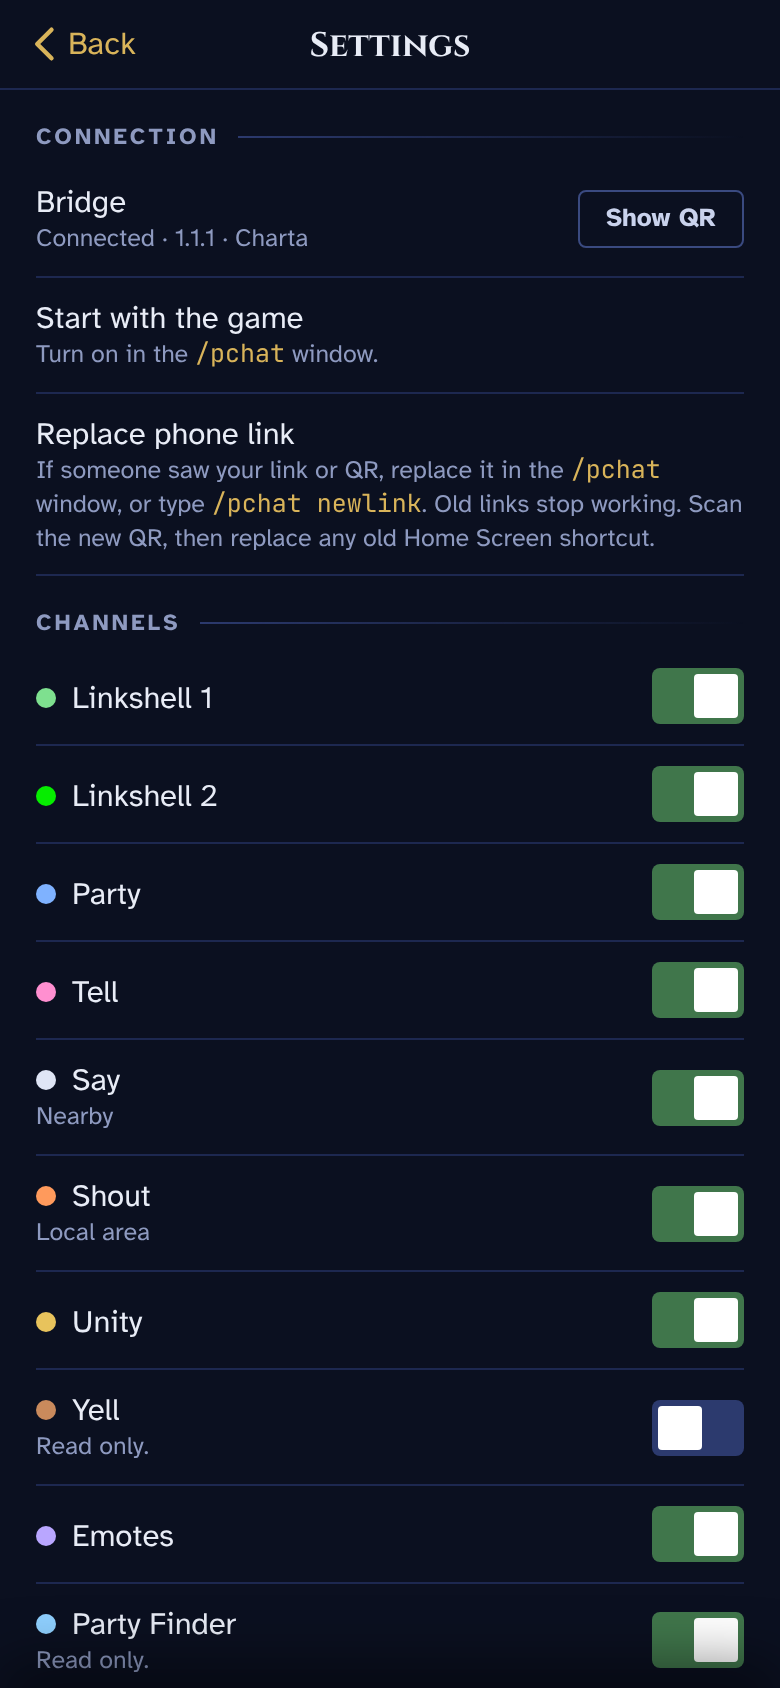
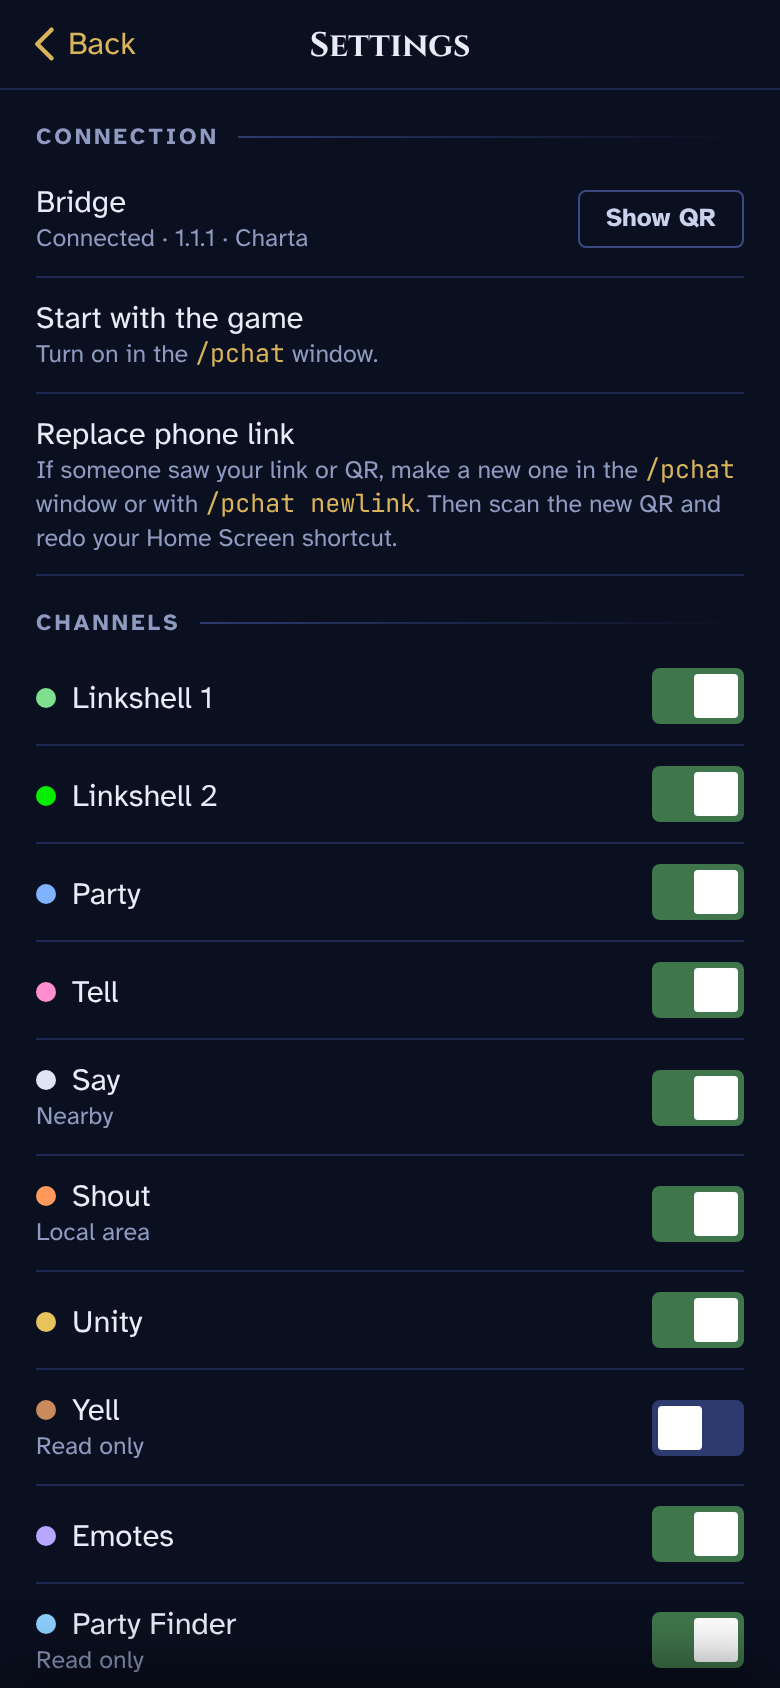
1.1.1: shorter help text in Settings; 'Your name' is now 'Mentions'; Settings screenshot retaken
Claude-Session: https://claude.ai/code/session_01EQHJvygqjKH5KeboZ1DR92

Changed region(s): [[0.0615, 0.2773, 0.9538, 0.3389]]

diff --git a/bridge/index.html b/bridge/index.html
@@ -915,7 +915,7 @@ function watchList(text) {
 function setWatch() {
   var words = watchWords = watchList(S.watch);
   var note = $("watchnote");
-  if (note) note.textContent = words.length ? "Watching: " + words.join(", ") : "Not watching anything yet.";
+  if (note) note.textContent = words.length ? "Highlighting: " + words.join(", ") : "No names set yet.";
   var src = words.map(function (w) { return w.replace(/[.*+?^${}()|[\]\\]/g, "\\$&"); }).join("|");
   watchRe = words.length ? new RegExp("(^|[^A-Za-z0-9])(" + src + ")(?![A-Za-z0-9])", "i") : null;
   watchReG = words.length ? new RegExp("(^|[^A-Za-z0-9])(" + src + ")(?![A-Za-z0-9])", "gi") : null;
@@ -2043,20 +2043,20 @@ function renderSettings() {
     srow("Bridge", connected ? "Connected" + (status.version ? " &middot; " + esc(status.version) : "") + (status.char ? " &middot; " + esc(status.char) : "") : "Not connected", '<button class="linkbtn" data-act="qr">' + (showQr ? "Hide QR" : "Show QR") + "</button>") +
     (showQr ? '<div id="qrbox"></div><div class="sfoot" style="text-align:center;word-break:break-all">' + esc(link) + "</div>" : "") +
     srow("Start with the game", "Turn on in the <span class=\"code\">/pchat</span> window.", "") +
-    srow("Replace phone link", "If someone saw your link or QR, replace it in the <span class=\"code\">/pchat</span> window, or type <span class=\"code\">/pchat newlink</span>. Old links stop working. Scan the new QR, then replace any old Home Screen shortcut.", "") +
+    srow("Replace phone link", "If someone saw your link or QR, make a new one in the <span class=\"code\">/pchat</span> window or with <span class=\"code\">/pchat newlink</span>. Then scan the new QR and redo your Home Screen shortcut.", "") +
     '<div class="sect">CHANNELS</div>' +
-    CHAT_CH.map(function (c) { return srow('<span class="dot" style="--c:' + CH[c].c + '"></span>' + CH[c].full, c === "yell" ? "Read only." : (c === "shout" ? "Local area" : (c === "say" ? "Nearby" : (c === "finder" ? "Read only." : ""))), tog(S.master[c], "m." + c)); }).join("") +
+    CHAT_CH.map(function (c) { return srow('<span class="dot" style="--c:' + CH[c].c + '"></span>' + CH[c].full, c === "yell" ? "Read only" : (c === "shout" ? "Local area" : (c === "say" ? "Nearby" : (c === "finder" ? "Read only" : ""))), tog(S.master[c], "m." + c)); }).join("") +
     '<div class="sect">CALLS</div>' +
     srow("When a call comes in", "", segs("calls", [["off", "Off"], ["highlight", "Highlight"], ["badge", "Badge"]], S.calls)) +
     '<div class="sect">ALERTS</div>' +
-    '<div class="srow col"><div class="m"><div>Your name</div><small>Your name or nicknames, up to 3, letters only. Marked in chat and listed in Alerts. Separate with commas.</small></div>' +
+    '<div class="srow col"><div class="m"><div>Mentions</div><small>Up to 3 names or nicknames, letters only, separated by commas. Highlighted in chat and listed in Alerts.</small></div>' +
     '<input class="field" id="watchin" placeholder="e.g. Shantotto, Totto" maxlength="60" autocomplete="off" autocapitalize="off" spellcheck="false" value="' + esc(S.watch || "") + '">' +
-    '<small id="watchnote" style="color:var(--mute)">' + (watchWords.length ? "Watching: " + esc(watchWords.join(", ")) : "Not watching anything yet.") + "</small></div>" +
+    '<small id="watchnote" style="color:var(--mute)">' + (watchWords.length ? "Highlighting: " + esc(watchWords.join(", ")) : "No names set yet.") + "</small></div>" +
     srow("Bazaar visits", "Listed in Alerts when someone browses your bazaar.", tog(S.bazaar, "bazaar")) +
     '<div class="sect">TYPING</div>' +
-    srow("Capitalize first letter", "Off by default, since most people type lowercase in game.", tog(S.caps, "caps")) +
-    srow("Autocorrect", "Off by default, so game words like Jeuno or Windurst aren't changed.", tog(S.autocorrect, "autocorrect")) +
-    '<div class="srow col"><div class="m"><div>Your emoticons</div><small>The ones in the :) row, in this order. Add or remove any. Up to 20, separated by commas, plain keyboard characters only.</small></div>' +
+    srow("Capitalize first letter", "Most people type lowercase in game.", tog(S.caps, "caps")) +
+    srow("Autocorrect", "Leave off so game words like Jeuno aren't changed.", tog(S.autocorrect, "autocorrect")) +
+    '<div class="srow col"><div class="m"><div>Your emoticons</div><small>Shown under the :) button, in this order. Up to 20, separated by commas. Keyboard characters only, no emoji.</small></div>' +
     '<input class="field" id="emoin" placeholder="' + esc(EMO_DEFAULT.join(", ")) + '" maxlength="400" autocomplete="off" autocapitalize="off" autocorrect="off" spellcheck="false" value="' + esc(S.emoticons || EMO_DEFAULT.join(", ")) + '">' +
     '<div style="display:flex;align-items:center;gap:10px"><small id="emonote" style="color:var(--mute);flex:1">Showing: ' + esc(emoList().join("  ")) + '</small><button class="linkbtn" data-act="emoreset">Reset to defaults</button></div></div>' +
     '<div class="sect">PRIVACY</div>' +
@@ -2072,7 +2072,7 @@ function renderSettings() {
     srow("Scrollback", "Lines kept per channel", segs("scrollback", [["1", "500"], ["2", "1,000"], ["4", "2,000"]], String(S.scrollback || 1))) +
     '<div class="subsect">Channel colors</div>' +
     CHAT_CH.map(function (c) { return srow(ico(CH[c].icon, 16, "margin-right:8px;vertical-align:-2px") + CH[c].full, "", '<input type="color" class="swatch" data-color="' + c + '" value="' + colorOf(c) + '" aria-label="' + CH[c].full + ' color">'); }).join("") +
-    srow("Color message text by channel", "Use channel colors for message text too.", tog(S.channelText, "channelText")) +
+    srow("Color message text", "Off: only names are colored.", tog(S.channelText, "channelText")) +
     srow("Reset colors", "", '<button class="linkbtn" data-act="resetcolors">Reset</button>') +
     '<div class="sect">BACKUP</div>' +
     srow("Your settings", "Also saved on the bridge, so a new shortcut or phone picks them up.", '<button class="linkbtn" data-act="export">Export</button><button class="linkbtn" data-act="import" style="margin-left:8px">Import</button>') +

diff --git a/CHANGELOG.md b/CHANGELOG.md
@@ -15,7 +15,7 @@ Fixes, looks and a few phone-side features (your own emoticons, drafts, HVNM car
 - "Jump to latest" sits under the feed instead of covering messages.
 - The quick filter row (LS1, LS2, Party and so on) can be turned off in Edit view. It's on by default. The separate Filters button is gone.
 - View tabs fit their labels.
-- Message text is neutral by default. "Color message text by channel" in Settings turns on channel colors for the text too, and dark colors are lightened so they stay readable.
+- Message text is neutral by default. "Color message text" in Settings turns on channel colors for the text too, and dark colors are lightened so they stay readable.
 - LS2 is now `#06ED00`. Colors you chose yourself stay as they are. The color picker stays open while new messages arrive.
 - A tidier look on Midnight, Classic and Onyx: square corners, one window frame, fewer outlines, and gold kept for Send, POP! and the selected tab. Alerts cards lose their inner boxes. CSS only. Yunas is unchanged.
 - Keyboard focus is visible, the message box is labeled for screen readers, and animations stop if your device is set to reduce motion.
@@ -37,6 +37,7 @@ Fixes, looks and a few phone-side features (your own emoticons, drafts, HVNM car
 - An emoji with no text swap gets a hint above the box ("🤔" not valid, won't appear in game), instead of quietly disappearing from the line.
 - A fourth skin, "Yunas": near-black with a violet tint, periwinkle and lavender accents, his pink-to-violet "Yuna" gradient on selected buttons and a pink highlight for mentions, with its own channel colors (colors you picked yourself still win, and Reset colors goes back to the skin's). It uses TeX Gyre Adventor, his AvantGarde-style font, when Font is Readable. It's inspired by Yunas's YunaUI and used with his OK. It's unofficial, so send any issues to Charta, not Yunas. It copies the look only and uses none of YunaUI's code or images, and Settings says so.
 - The Party Finder filter is now "PF", with a "looking for members" icon.
+- Shorter help text in Settings. "Your name" is now "Mentions".
 - About is shorter and up to date. Settings now shows a Build ID, and Copy debug info includes it.
 - Replacing your phone link is explained step by step in the `/pchat` window, on the setup page, in Settings, on the "link was replaced" banner and in the README: scan the new QR, check chat connects, then remove the old Home Screen shortcut and add the new link. Old links stop working. How links are checked is unchanged.
 - The QR code in Settings stays black on white even if your browser has a night mode, so it can be scanned.
